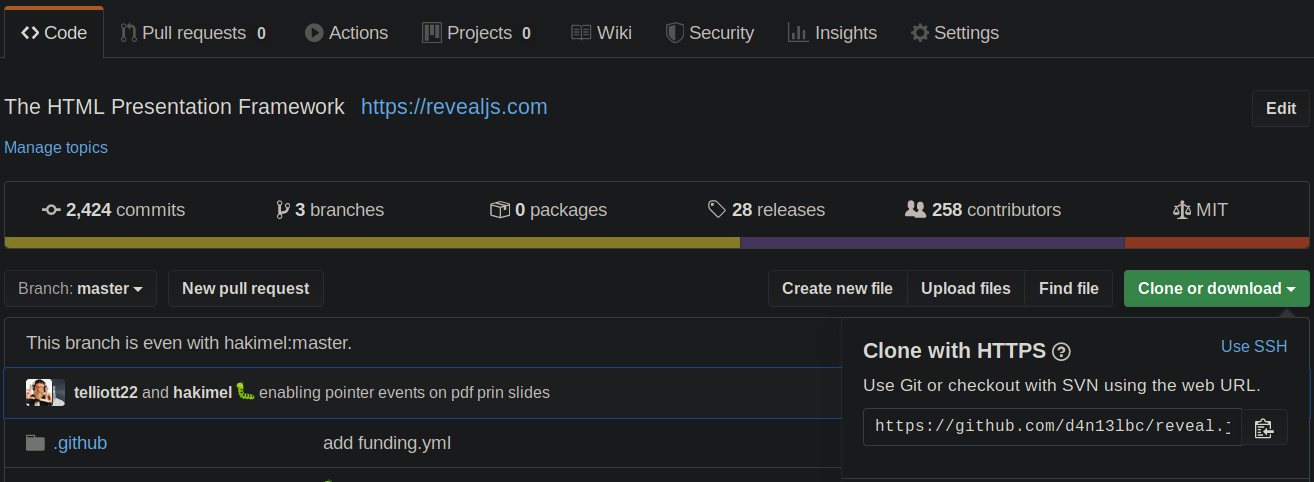
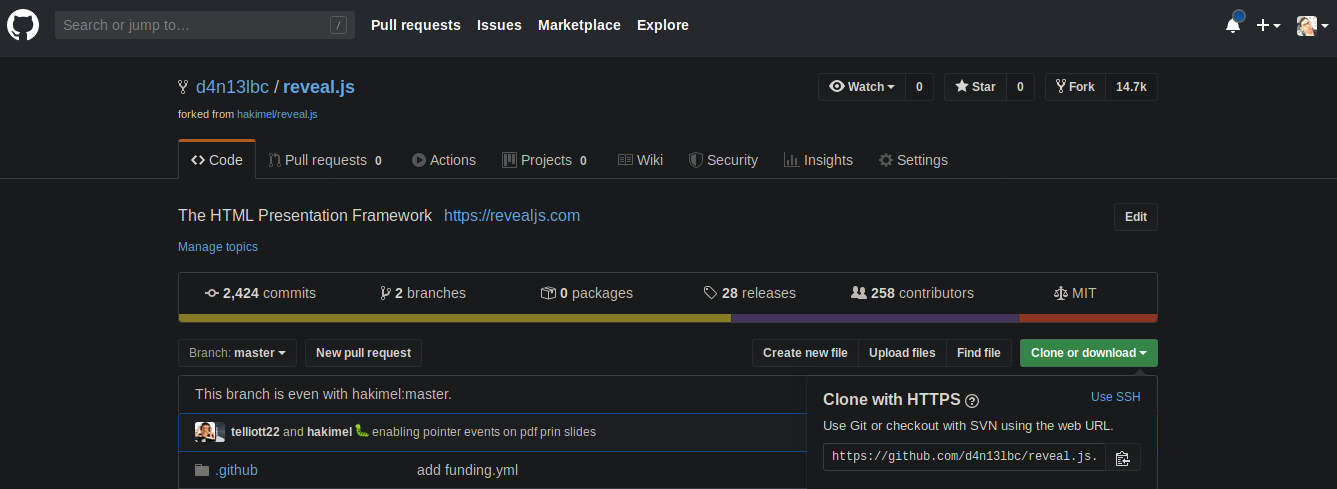
Add website explanation

diff --git a/Spanish/01_git/README.md b/Spanish/01_git/README.md
@@ -42,22 +42,29 @@ cd reveal.js
 firefox index.html
 ```
 
-The forked repository already has a gh-pages branch, which allows you to expose the reposity content as a website
+Github allows you to use your github repository as a website host if you create an additional branch named **gh-pages**. The forked repository already has a gh-pages branch but you will have to delete it and create it again in order to visualize your slides in a website
+
+![][4]
+**Figure 4.** Delete branch
+
+![][5]
+**Figure 5.** Create branch
+
 ```
 firefox https://d4n13lbc.github.io/reveal.js/#/1
 ```
 
-![][4]
-**Figure 4.** Example website
+![][6]
+**Figure 6.** Example website
 
 ##  Activities
-Check the reveal.js repository and do a presentation about another github open source project
+1. Check the reveal.js repository and do a presentation about another github open source project
+
+1. Delete the create GitHub repository
 
 [1]: images/0_fork.png
 [2]: images/1_clone_url.png
 [3]: images/2_git_clone.png
-[4]: images/3_example_website.png
-
-<!--
-## Delete a Github repository
--->
+[4]: images/3_delete_branch.png
+[5]: images/4_create_branch.png
+[6]: images/5_example_website.png
